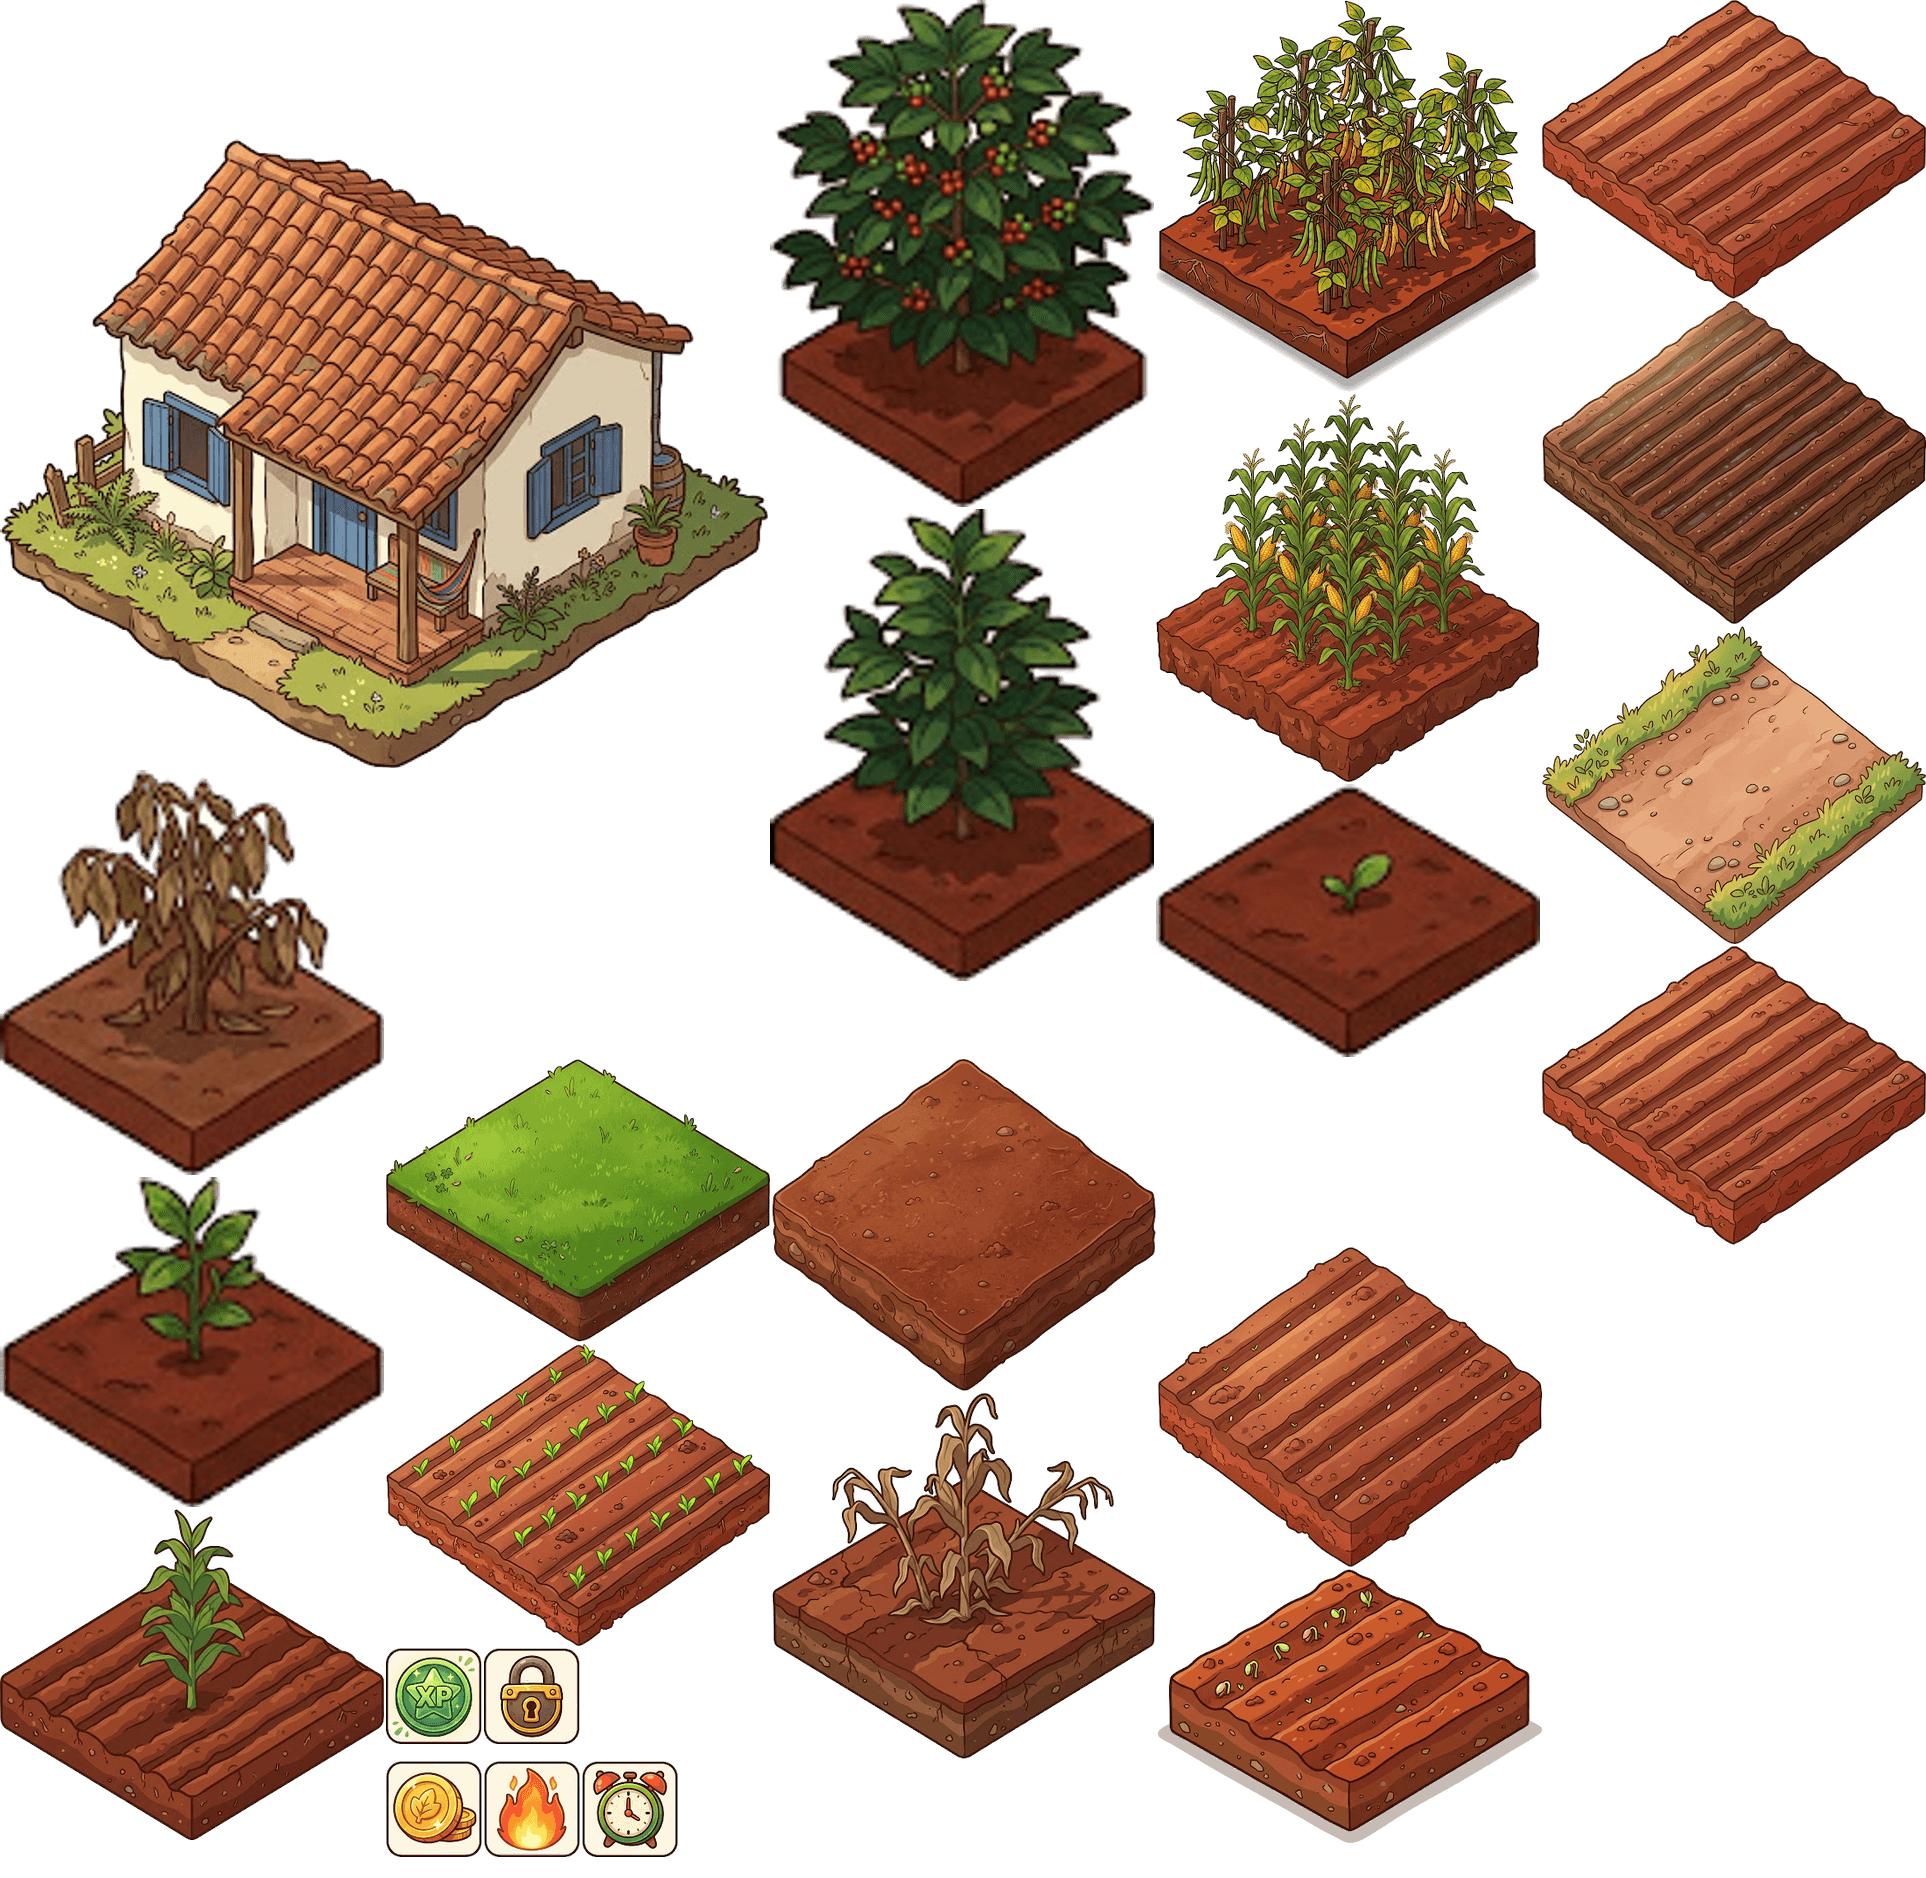
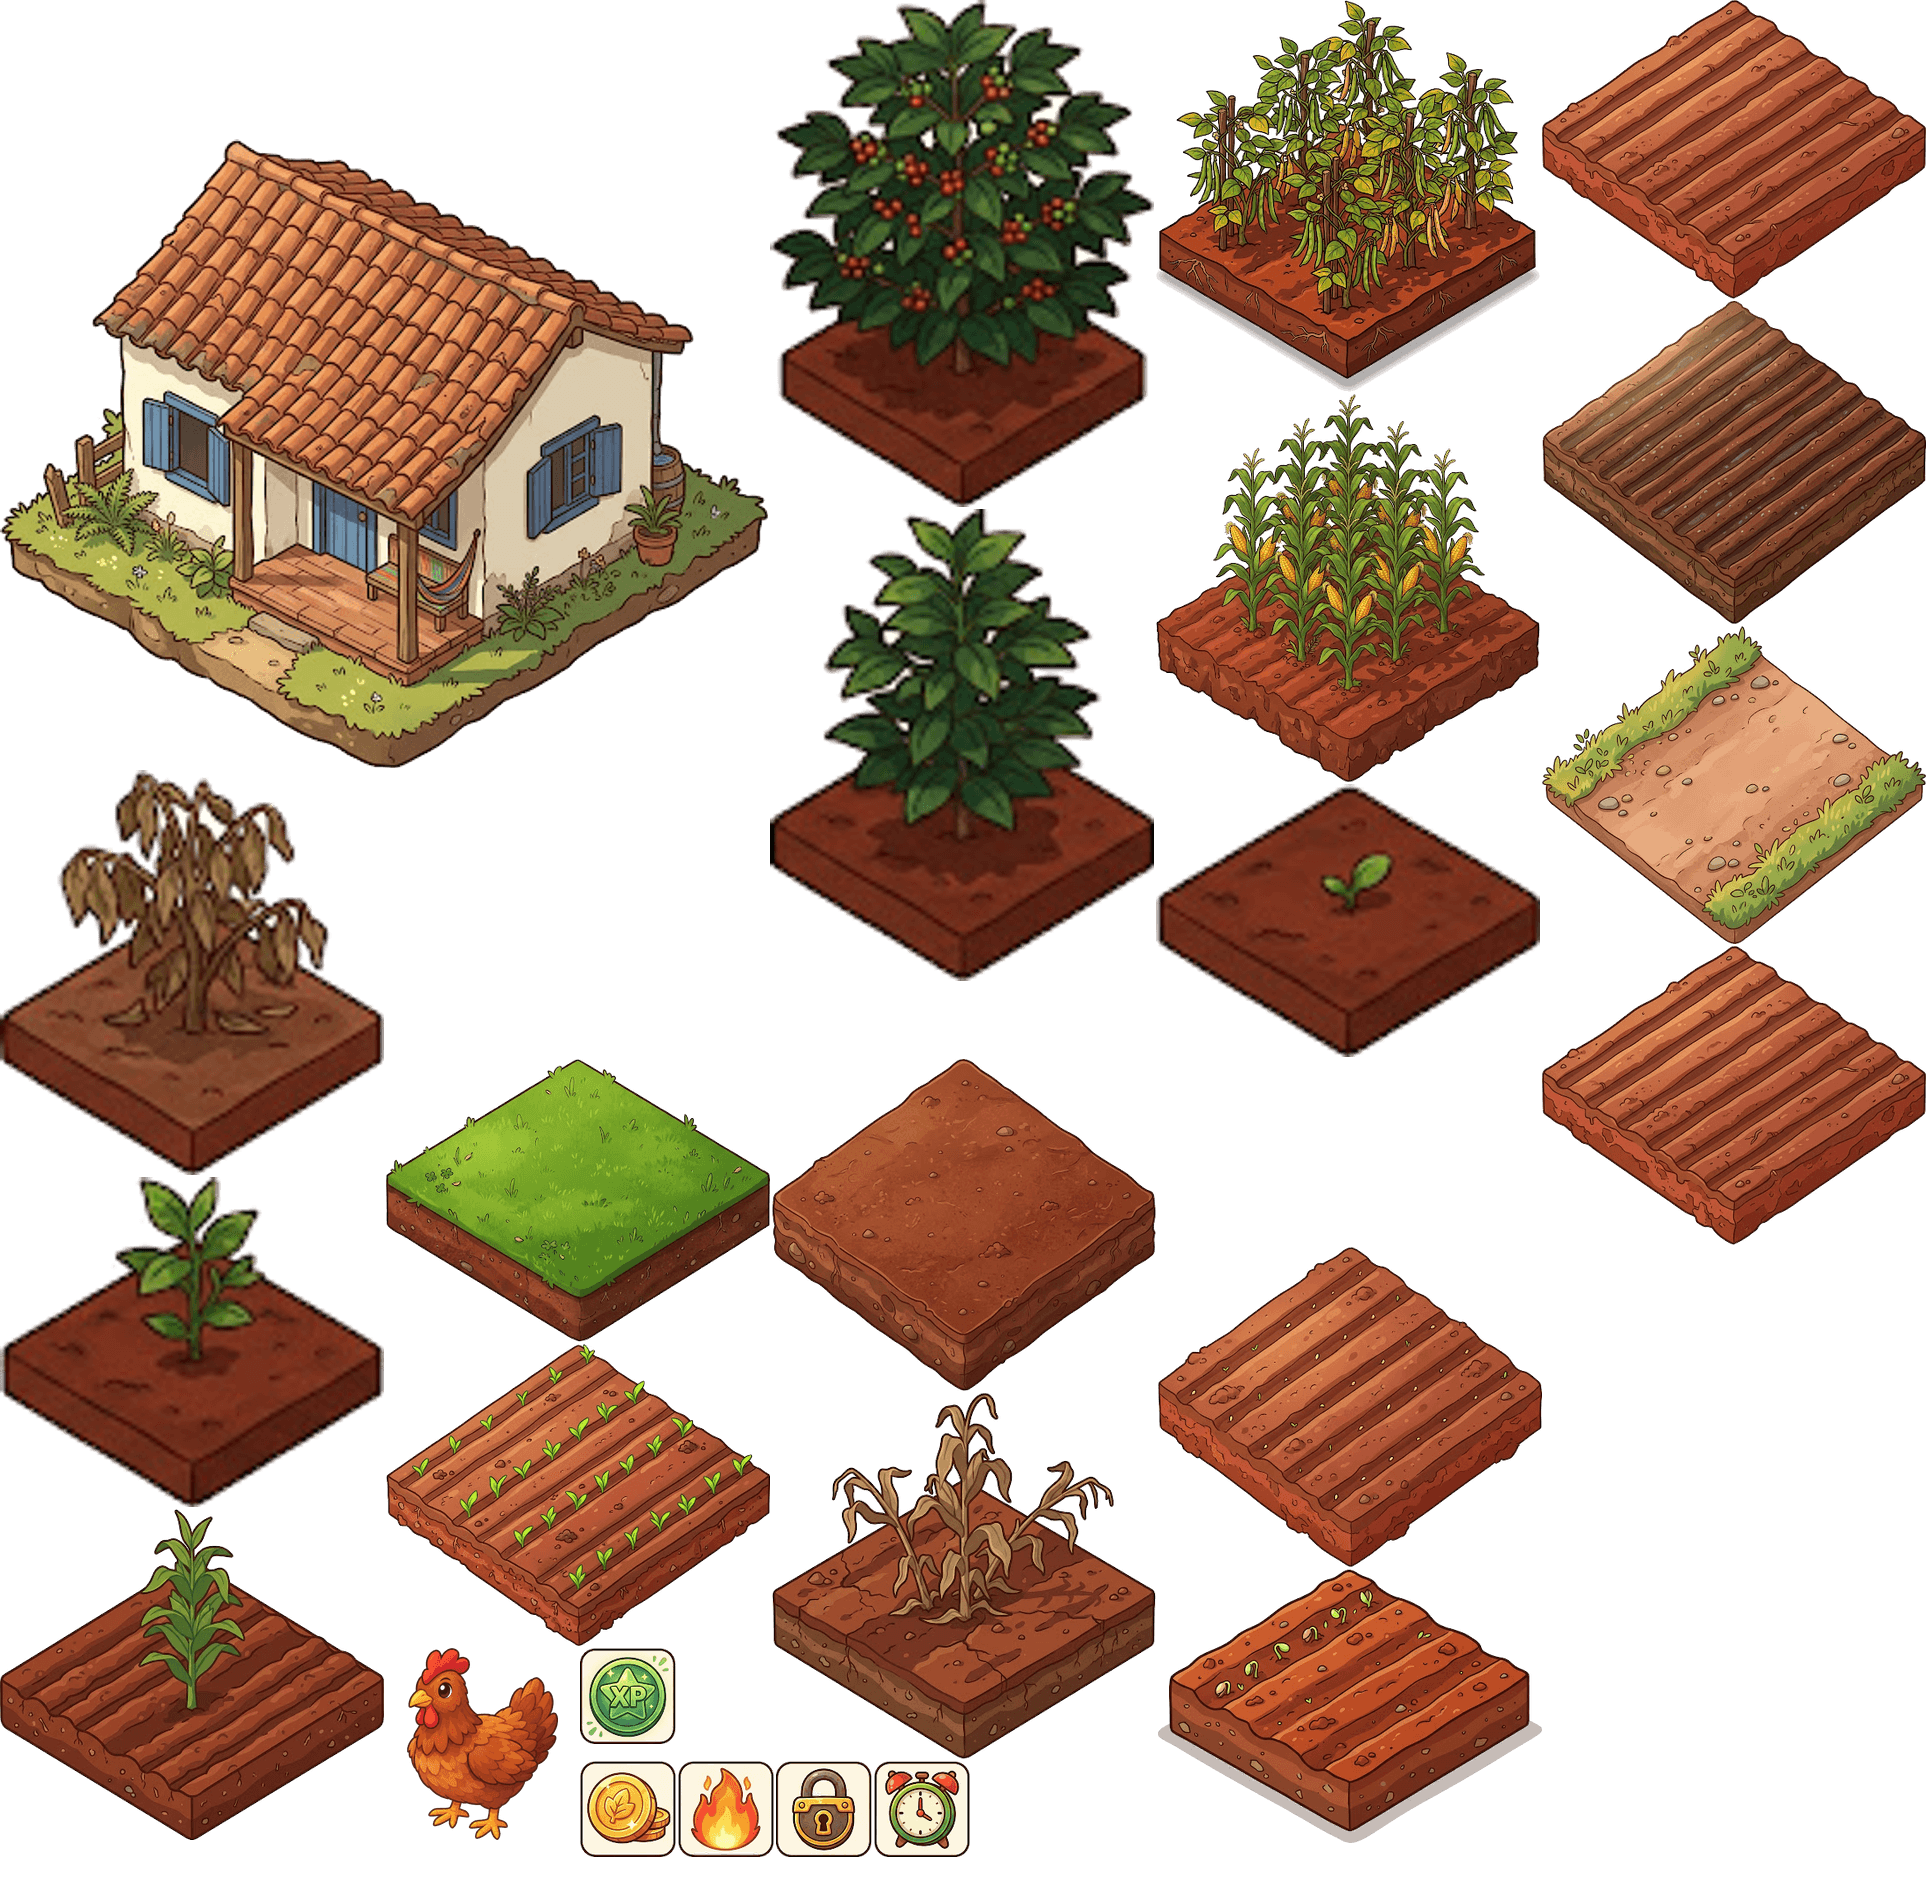
Assets: aceitar .PNG/.JPG e extensão dobrada vindas do celular; remover duplicatas da galinha e do galinheiro
Claude-Session: https://claude.ai/code/session_01XN5yJUu1Ayq8GTviXXAyeh

Changed region(s): [[0.1869, 0.8647, 0.5296, 0.9883]]

diff --git a/docs/ASSETS.md b/docs/ASSETS.md
@@ -7,7 +7,7 @@ npm run assets -- --debug  # também salva cada sprite em assets/.cache/out para
 
 ## Pelo celular, sem computador
 
-1. Renomeie a imagem com a **chave** do item (lista em `assets/manifest.json`), ex.: `animal_galinha_idle_01.png`. No app Arquivos: toque e segure › Renomear.
+1. Renomeie a imagem com a **chave** do item (lista em `assets/manifest.json`), ex.: `animal_galinha_idle_01.png`. No app Arquivos: toque e segure › Renomear. Maiúsculas na extensão (`.PNG`) e extensão dobrada (`.png.PNG`) são aceitas.
 2. No GitHub (Safari): abra a pasta `assets/raw` › **Add file › Upload files** › escolha a imagem › **Commit changes**.
 3. Os builds rodam `npm run assets` sozinhos: o PWA atualiza em ~2 min e um `.ipa` novo sai no Releases em ~10 min.
 
